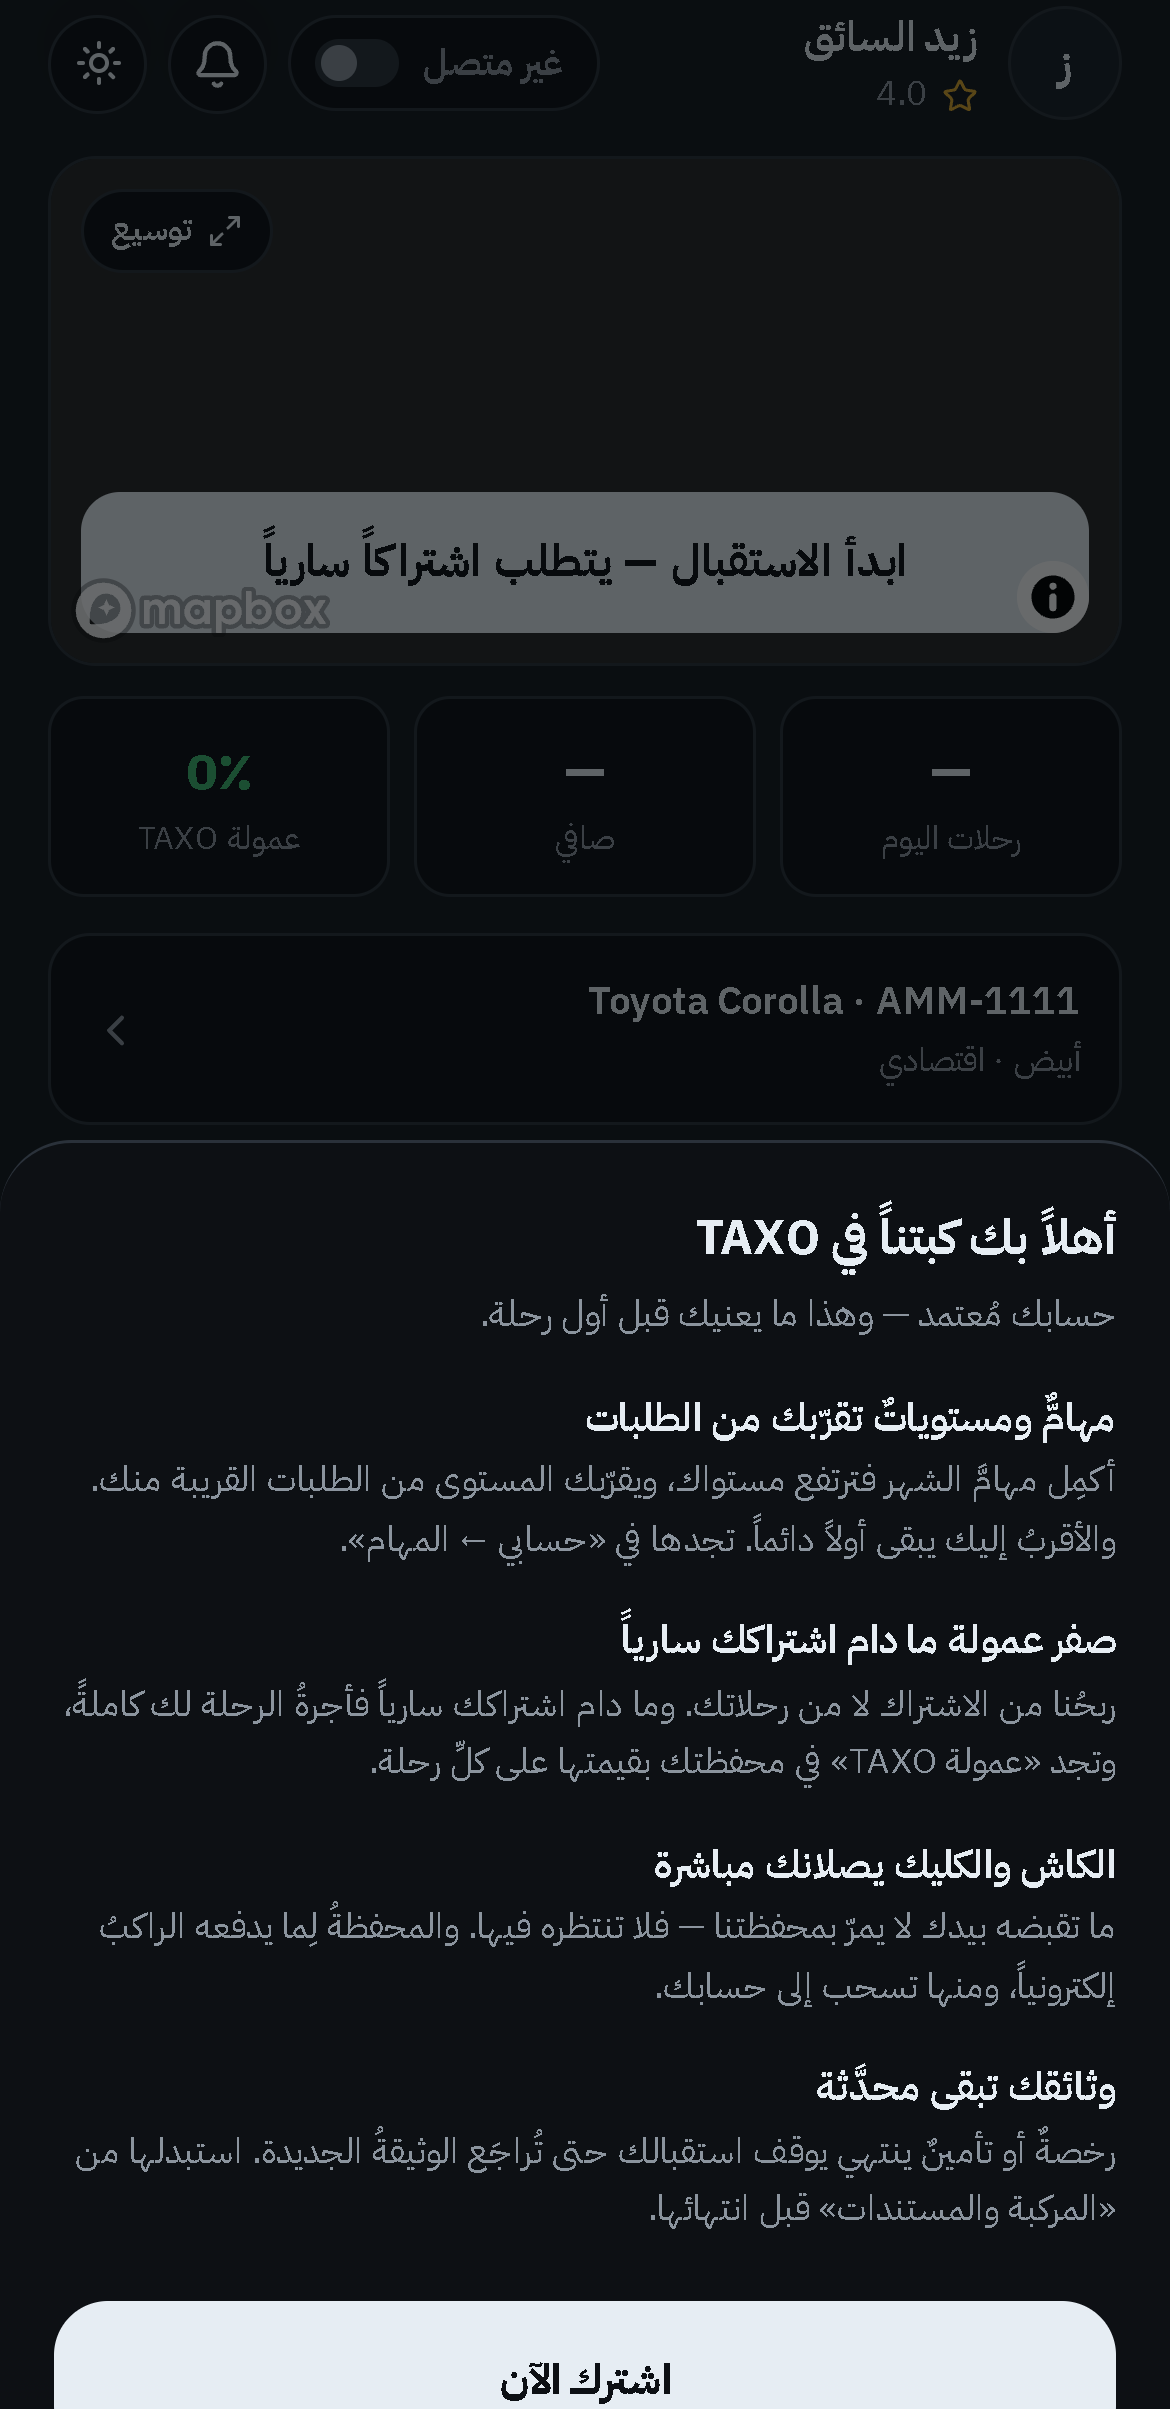
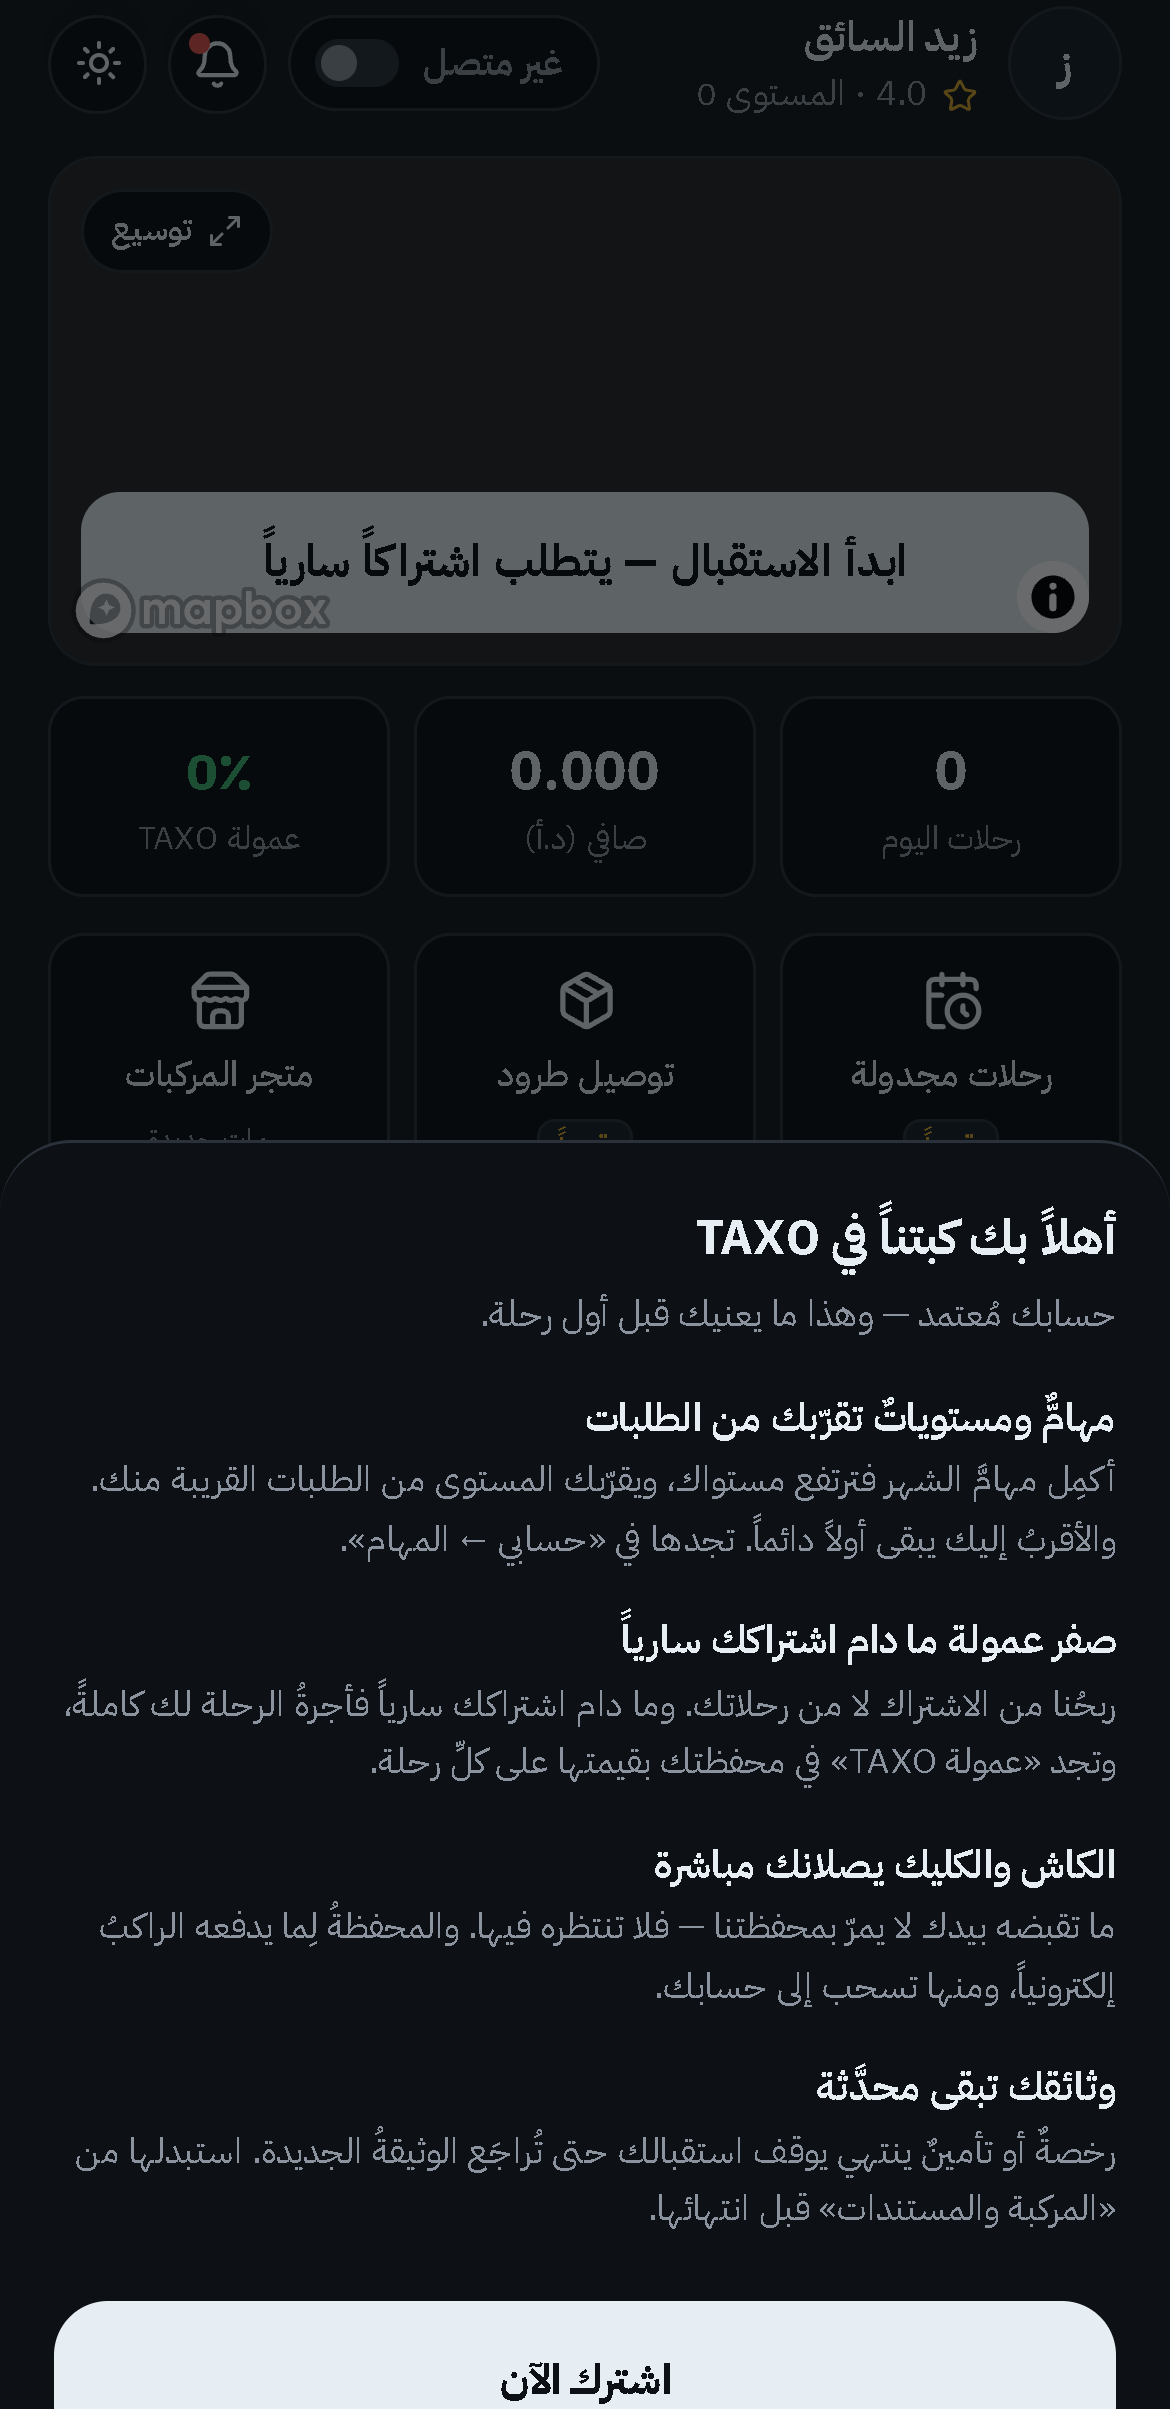
القسمُ الأول — الأردنُ وحدَه، والمزوّدون بأسمائهم، وقاعدةُ المال في اللقطات
**ثلاثةُ تعديلاتٍ أمر بها المالك على المسوّدات، وكلُّها من بابها المبنيّ:**

- **بيانُ الجهة** يُملأ `taxo-joly` · «عمّان، الأردن» · `privacy@tajora.ly`،
  **ولا شيءَ غيرَه حتى يصل سجلٌّ تجاريّ** — عبر `policies.save_org` بقيَمها
  قبل وبعد.
- **«ونحن لسنا ناقلاً» تُحذف** من شروط الراكب: **دعوى قانونيةٌ تخصّ محامياً
  لا وكيلاً**، ولا يُوقَّع على ما لم يراجعه محامٍ.
- **والمزوّدون بأسمائهم** في خصوصية الراكب — Mapbox وWhatsApp وFirebase
  Cloud Messaging، **ولكلٍّ ما يصله بعينه**. **وما لا عقدَ له لا يُذكر**:
  مزوّدُ البطاقة خرج من القائمة.

**والأردنُ وحدَه**: `MARKETS` كانت سوقين فصارت واحداً. **ونصٌّ قانونيٌّ لسوقٍ
لا يُذكر يبقى في القاعدة حتى ينشره أحدٌ سهواً**، **وأربعُ وثائقَ مكرّرةٍ بنصٍّ
واحدٍ تجعل مراجعةَ إنسانٍ ثمانيةً بلا فائدة**.

**والمسوّداتُ حُذفت وأُعيد بذرُها لا نُسخت**: §34 تحمي **نصّاً وافق عليه
إنسان**، وهذه **لم يرها أحدٌ ولا موافقةَ عليها** — و`delete_draft` هو البابُ
المبنيُّ لها بعينه (يرفض المنشورَ، ويرفض ما وافق عليه حساب). **ونسخةٌ ثانيةٌ
لمسوّدةٍ لم تُقرأ ضجيجٌ**. والحصيلةُ ٨ صفوفٍ ← **٤ أردنيةٍ مسوّدةٌ غيرُ
منشورة**، **والمفتاحان مطفآن**: `GET /public/policy` يعود `null` مقيساً.

**وقاعدةُ المال في اللقطات كُتبت في `STATE.md` كي لا تُستأنف** (قرارُ المالك):
**الفيصلُ «أيُقرأ الرقمُ وعداً؟» لا «أفي الصورة رقمُ مال؟»** — رصيدُ محفظةٍ
عرضُ ميزة، **ورقمٌ في أرباح الكبتن دعوى دخل**. وشرطاها مقيسان:
`rider-wallet` من حساب بذرة، و`captain-earnings` صفرٌ في كلِّ حقلٍ وصفرُ رحلات.
[…]

diff --git a/backend/scripts/seed_policies.py b/backend/scripts/seed_policies.py
@@ -35,7 +35,12 @@ from app.models.enums import CountryCode, PolicyApp, PolicyDocType
 from app.models.privacy import PrivacyPolicy
 from app.services import policies as policies_service
 
-MARKETS = (CountryCode.JO, CountryCode.LY)
+#: **الأردنُ وحدَه** (قرارُ المالك ٢٠٢٦-٠٩-٠٥): «ليبيا لا تُذكر في الموقع».
+#:
+#: **ولا تُبذر مسوّدةٌ لسوقٍ لا يُذكر**: نصٌّ قانونيٌّ لسوقٍ مغلقٍ يبقى في
+#: القاعدة حتى ينشره أحدٌ سهواً، **وأربعُ وثائقَ مكرّرةٍ بنصٍّ واحدٍ تجعل
+#: مراجعةَ إنسانٍ ثمانيةً بلا فائدة**. ويومَ يُفتح سوقٌ ثانٍ يُبذر بنصِّه هو.
+MARKETS = (CountryCode.JO,)
 
 
 def _log(message: str) -> None:
@@ -79,8 +84,10 @@ RIDER_PRIVACY = """سياسةُ الخصوصية — تطبيق الراكب
   وكلُّ فتحةٍ لتلك الشاشة مسجَّلةٌ باسم من فتحها.
 
 ٦) المزوّدون الذين تمرّ بهم بياناتُك
-خرائطُ ومساراتُ الطرق، ورسائلُ التحقق، والإشعارات، ومزوّدُ الدفع بالبطاقة.
-ولا يُرسل إلى أيٍّ منهم إلا ما يلزم عملَه.
+- Mapbox — الخرائطُ وحسابُ مسارات الطرق: تصله إحداثياتُ نقاطِ رحلتك.
+- WhatsApp — رسائلُ التحقق: يصله رقمُ هاتفك ورمزُ التحقق، لا غير.
+- Firebase Cloud Messaging — الإشعارات: يصله رمزُ جهازك ونصُّ الإشعار.
+ولا يُرسل إلى أيٍّ منهم إلا ما يلزم عملَه، ولا يُرسل إلى أحدٍ سواهم.
 
 ٧) كم نحتفظ
 حسابُك وسجلُّ رحلاتك ودفتُر محفظتك تبقى ما دام حسابُك قائماً؛ فهي سجلٌّ
@@ -100,8 +107,8 @@ RIDER_TERMS = """شروطُ الاستخدام — تطبيق الراكب
 مسوّدةٌ تصف العلاقةَ بينك وبين المنصّة كما يعمل النظامُ اليوم.
 
 ١) ما هذه الخدمة
-منصّةٌ تصل بين راكبٍ وكبتنٍ مستقلٍّ يقود مركبتَه. ونحن لسنا ناقلاً: عقدُ النقل
-بينك وبين الكبتن، وما نقدّمه الوصلُ والتسعيرُ والتحصيلُ وحفظُ السجلّ.
+منصّةٌ تصل بين راكبٍ وكبتنٍ مستقلٍّ يقود مركبتَه. وما نقدّمه الوصلُ والتسعيرُ
+والتحصيلُ وحفظُ السجلّ.
 
 ٢) حسابُك
 حسابٌ واحدٌ لرقمِ هاتفٍ واحد، ولا يُستعمل إلا بمعرفتك. والرقمُ يُثبَت برمزٍ

diff --git a/STATE.md b/STATE.md
@@ -6224,10 +6224,30 @@ TAXO الحقيقي **من أيقونة تطبيق الراكب**».
 
 **وصورةٌ أكبرُ من موضعها ليست جودةً، هي انتظار** — وقد كانت **هي عنصرَ LCP**.
 
-### ⚠ وسؤالٌ للمالك في لقطة المحفظة
+### مالٌ في لقطةٍ معروضة — **القاعدةُ حُسمت، فلا تُستأنف** (قرارُ المالك ٢٠٢٦-٠٩-٠٥)
 
-`rider-wallet` تعرض **رصيداً بالدينار** (`9.223 د.أ` وحركاتٍ بمبالغها) — وهي
-شاشةُ التطبيق الحقيقية. **أهذا من «أرقام الأسعار» الممنوعة أم لا؟** الشرطُ
-يقول «لا أرقام أسعار اشتراك ولا مبالغ عروض ولا مكافآت»، **ورصيدُ محفظةٍ ليس
-سعراً ولا عرضاً** — لكنه رقمُ مالٍ على الصفحة. **يُسأل ولا يُقرَّر.**
+**سُئل في لقطة `rider-wallet` (رصيدٌ بالدينار على شاشةٍ حقيقية)، فجاء الحكمُ
+قاعدةً لا جواباً لسؤال:**
+
+> «شرطي يمنع **ما يعِد المستخدمَ بمال** — أسعارُ اشتراكٍ ومبالغُ عروضٍ
+> ومكافآت. **ورصيدُ محفظةٍ عرضُ ميزةٍ لا وعد.**»
+
+**فالفيصلُ ليس «أفي الصورة رقمُ مال؟» بل «أيُقرأ الرقمُ وعداً؟»** — والفرقُ
+هو ما جعل السؤالَ يُطرح أصلاً: منعُ كلِّ رقمِ مالٍ كان سيُسقط شاشةَ المحفظة
+كلَّها، **وهي ميزةٌ مبنيّةٌ منشورةٌ يريد الزائرُ رؤيتَها**.
+
+**وشرطان يلزمان كلَّ لقطةٍ فيها مال، ويُقاسان قبل قبولها:**
+
+| الشرط | لمَ | مقيسٌ على المقبولتين |
+|---|---|---|
+| **١) الرقمُ من حساب بذرةٍ لا من حسابٍ حقيقيّ** | رصيدُ إنسانٍ حقيقيٍّ على صفحةٍ عامّةٍ تسريبٌ ماليّ، **ولو كان اسمُه محجوباً** | `rider-wallet` = `9.223 د.أ` من حساب البذرة |
+| **٢) ورقمٌ محايدٌ لا يُقرأ ربحاً متوقَّعاً** | رقمٌ في **أرباح الكبتن** يصير إعلانَ دخلٍ ضمنيّاً — **وهو وعدٌ بمال بعينه** | `captain-earnings` = `0.000 د.أ` وصفرُ رحلاتٍ منجزة |
+
+**ولمَ سطرُ «لا في لقطة أرباح الكبتن» منصوصٌ بذاته**: هو **الموضعُ الذي
+ينقلب فيه العرضُ وعداً**. محفظةٌ فيها رصيدٌ تقول «هنا تحفظ مالَك»؛ **وأرباحٌ
+فيها رقمٌ تقول «هذا ما ستكسب»** — والثانيةُ دعوى دخلٍ لا ميزة. **فالشاشةُ
+التي عليها الرقمُ جزءٌ من الحكم، لا الرقمُ وحدَه.**
+
+**والقاعدةُ تُطبَّق على كلِّ لقطةٍ فيها مالٌ من اليوم**، وكُتبت هنا **كي لا
+تُستأنف في كلِّ جولة** — وهو ما أمر به المالكُ نصّاً.
 <!--/جديد-->
